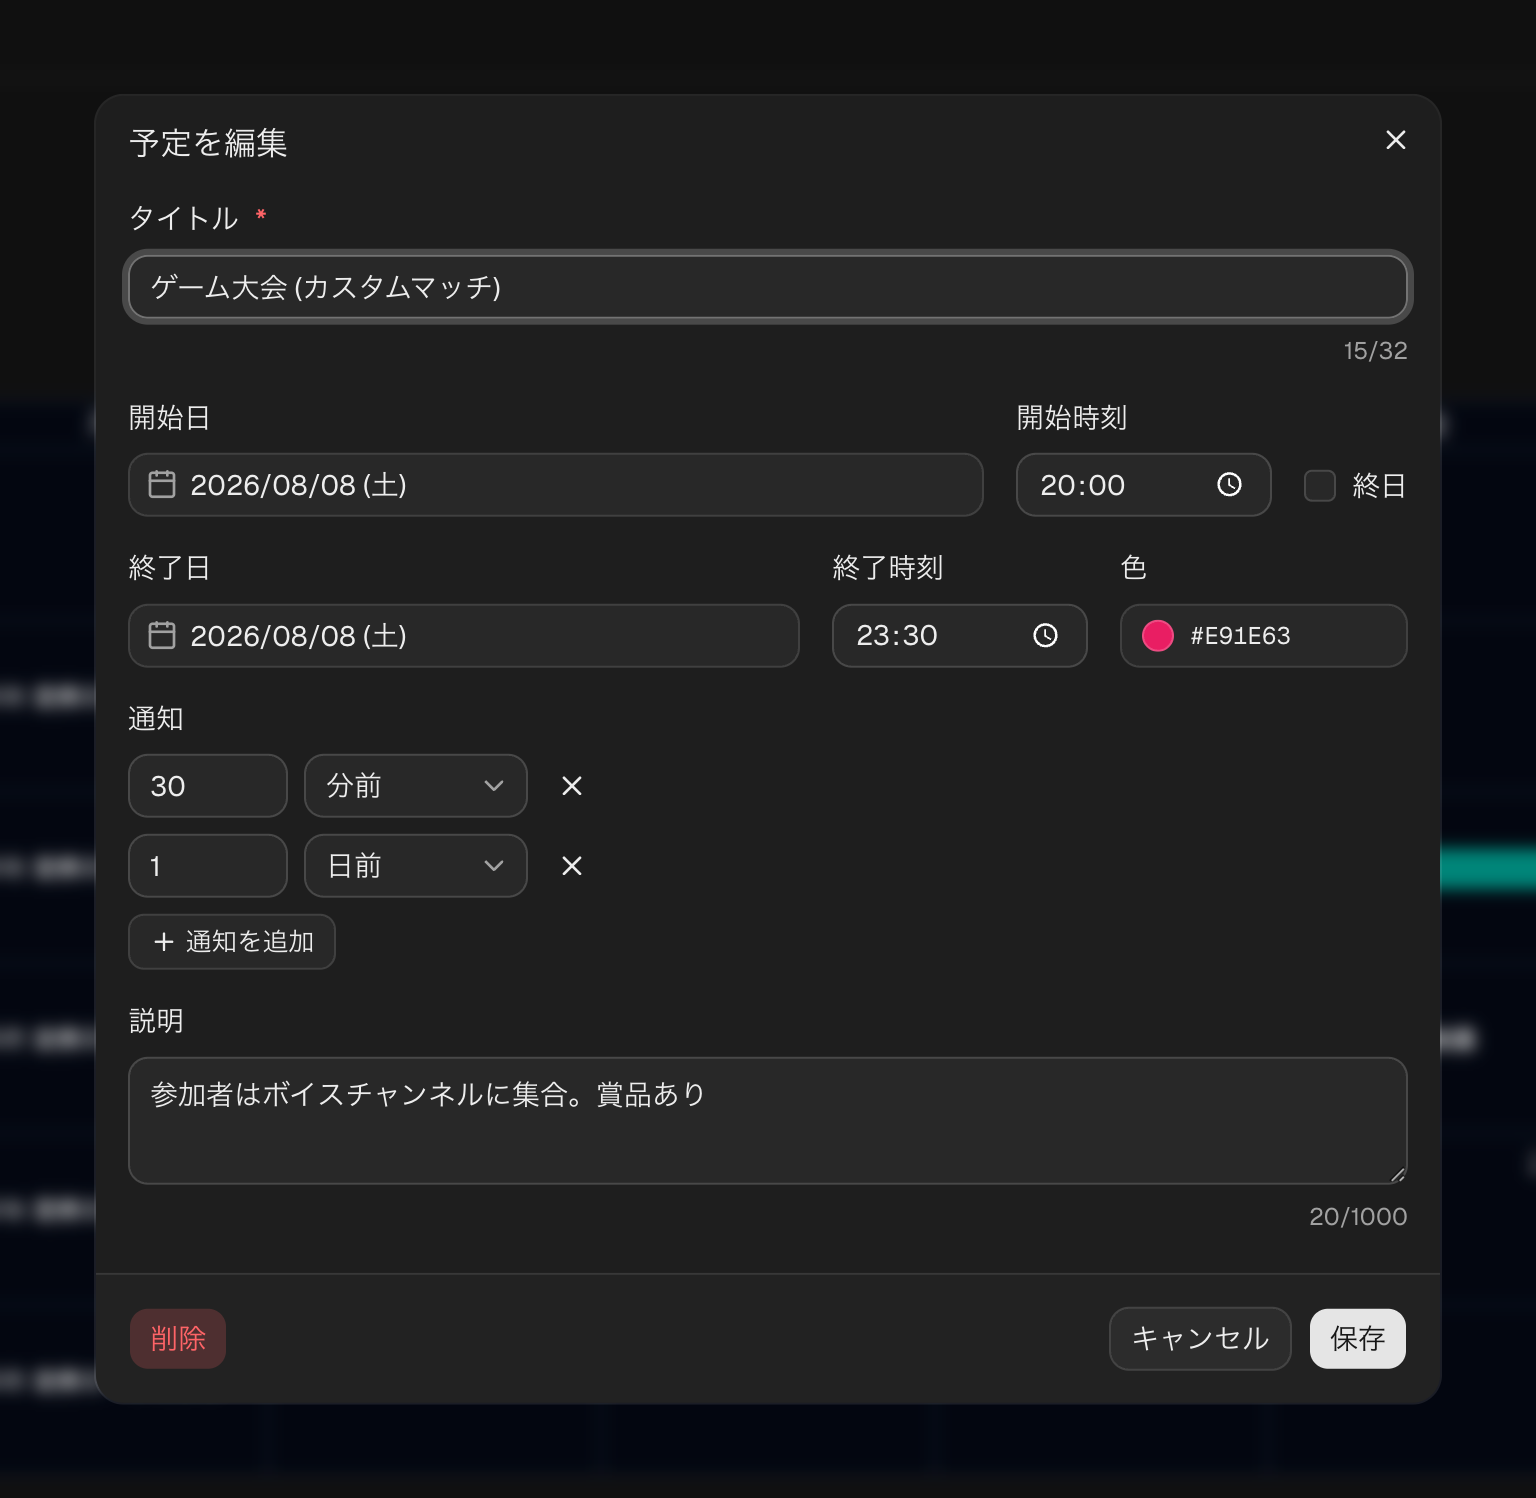
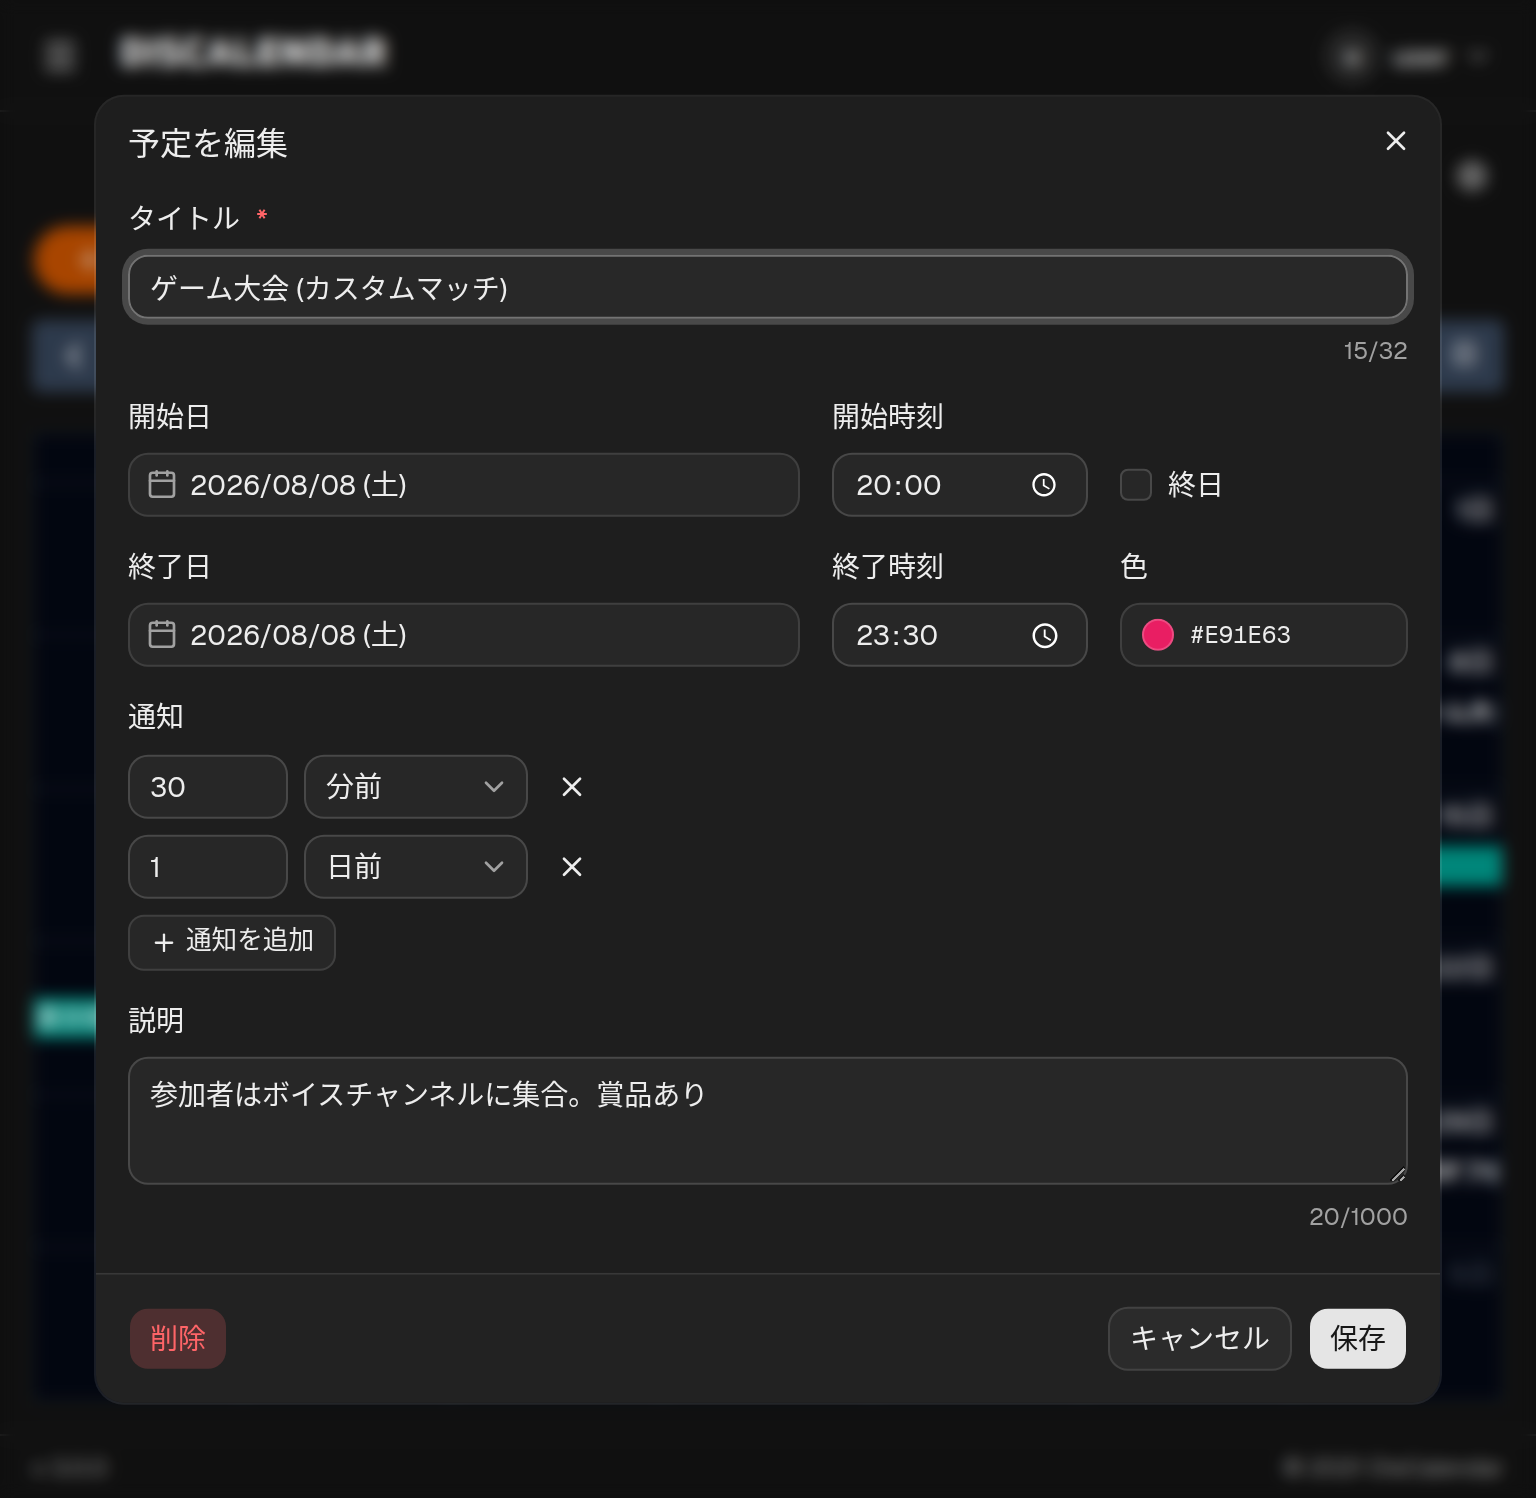
イベントフォームの日付・時刻フィールドのグリッドレイアウトを統合 (#55)

diff --git a/web/src/components/event-form-dialog.tsx b/web/src/components/event-form-dialog.tsx
@@ -174,6 +174,8 @@ function EventForm({ state, onClose, onSubmit, onDelete }: FormProps) {
           </div>
         </Field>
 
+        {/* 開始行 (開始日・開始時刻・終日) と終了行 (終了日・終了時刻・色) で
+            列の位置が揃うよう、1 つのグリッドで 2 行に並べる */}
         <div className="grid gap-4 sm:grid-cols-[1fr_8rem_auto]">
           <Field data-invalid={errors.startDate ? true : undefined}>
             <FieldLabel htmlFor="event-form-start-date">開始日</FieldLabel>
@@ -218,9 +220,6 @@ function EventForm({ state, onClose, onSubmit, onDelete }: FormProps) {
               終日
             </FieldLabel>
           </Field>
-        </div>
-
-        <div className="grid gap-4 sm:grid-cols-[1fr_8rem_auto]">
           <Field data-invalid={errors.endDate ? true : undefined}>
             <FieldLabel htmlFor="event-form-end-date">終了日</FieldLabel>
             <Controller
